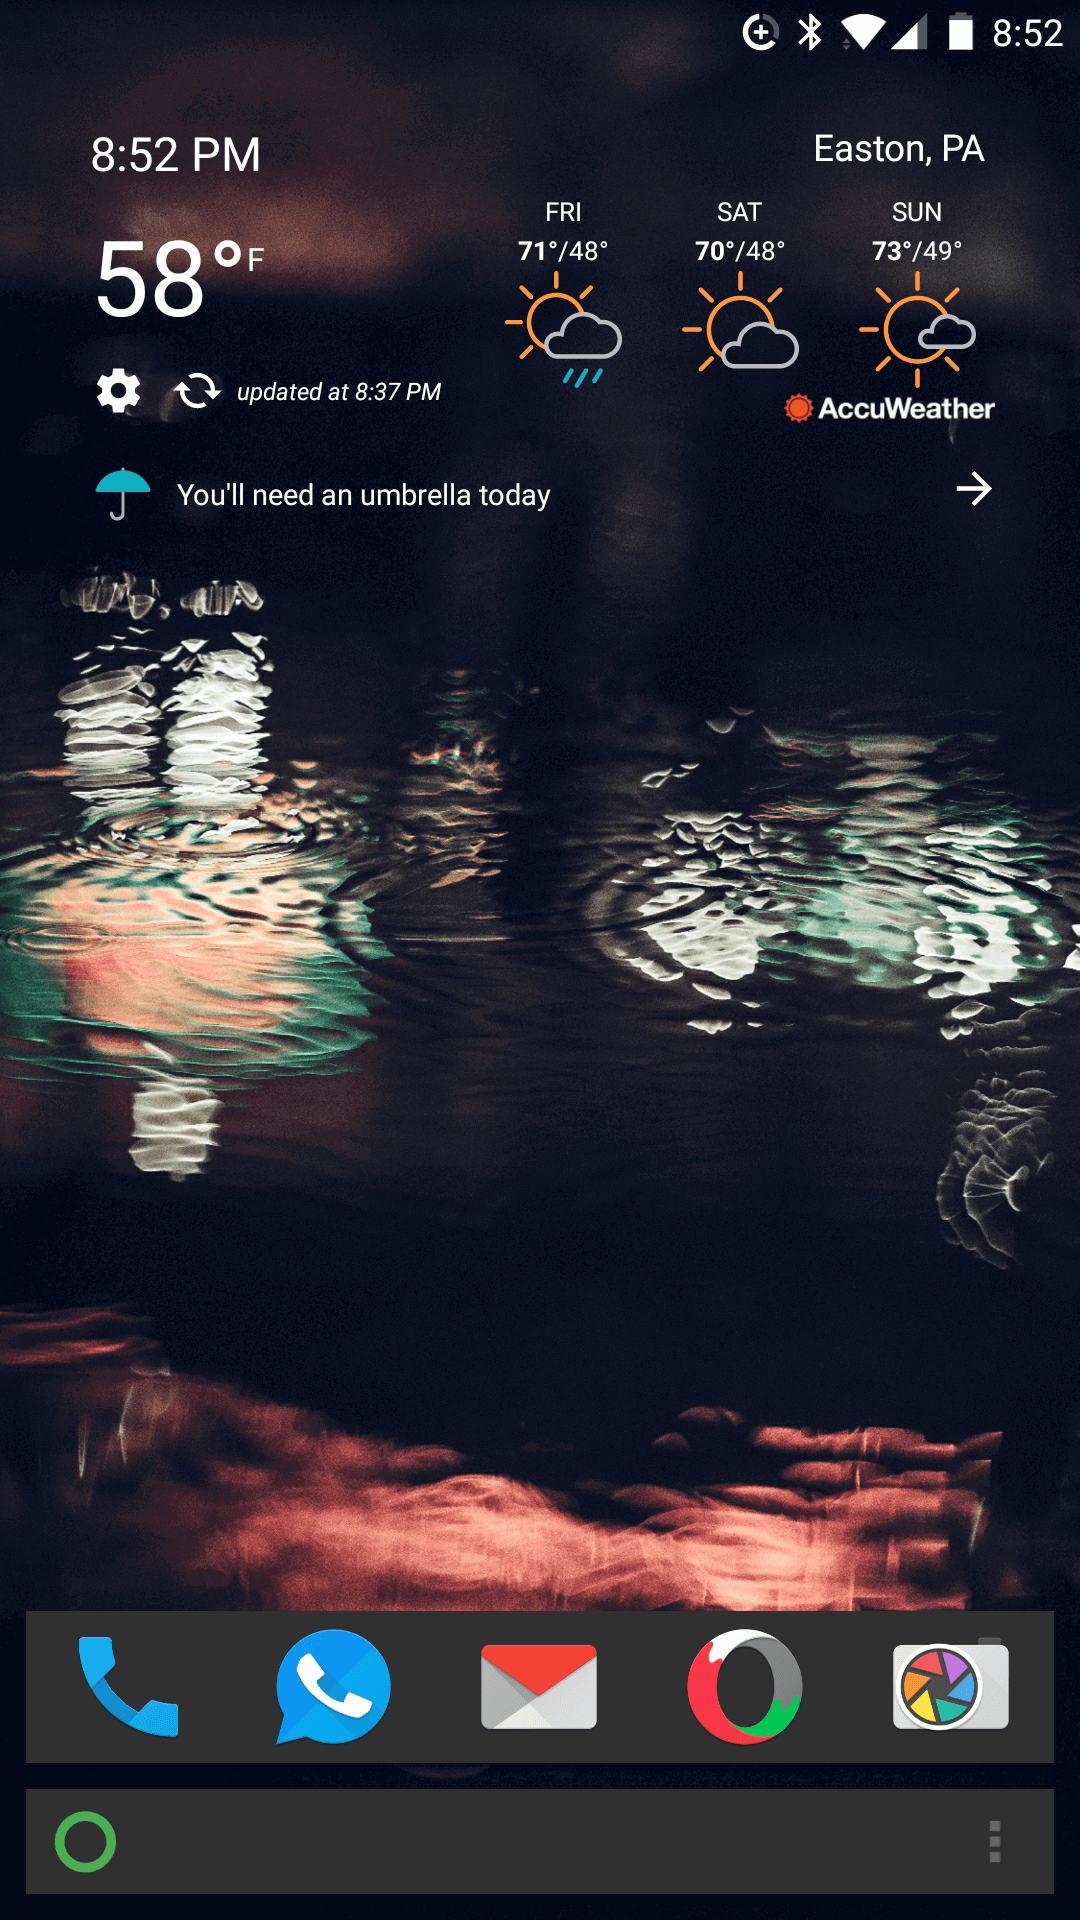
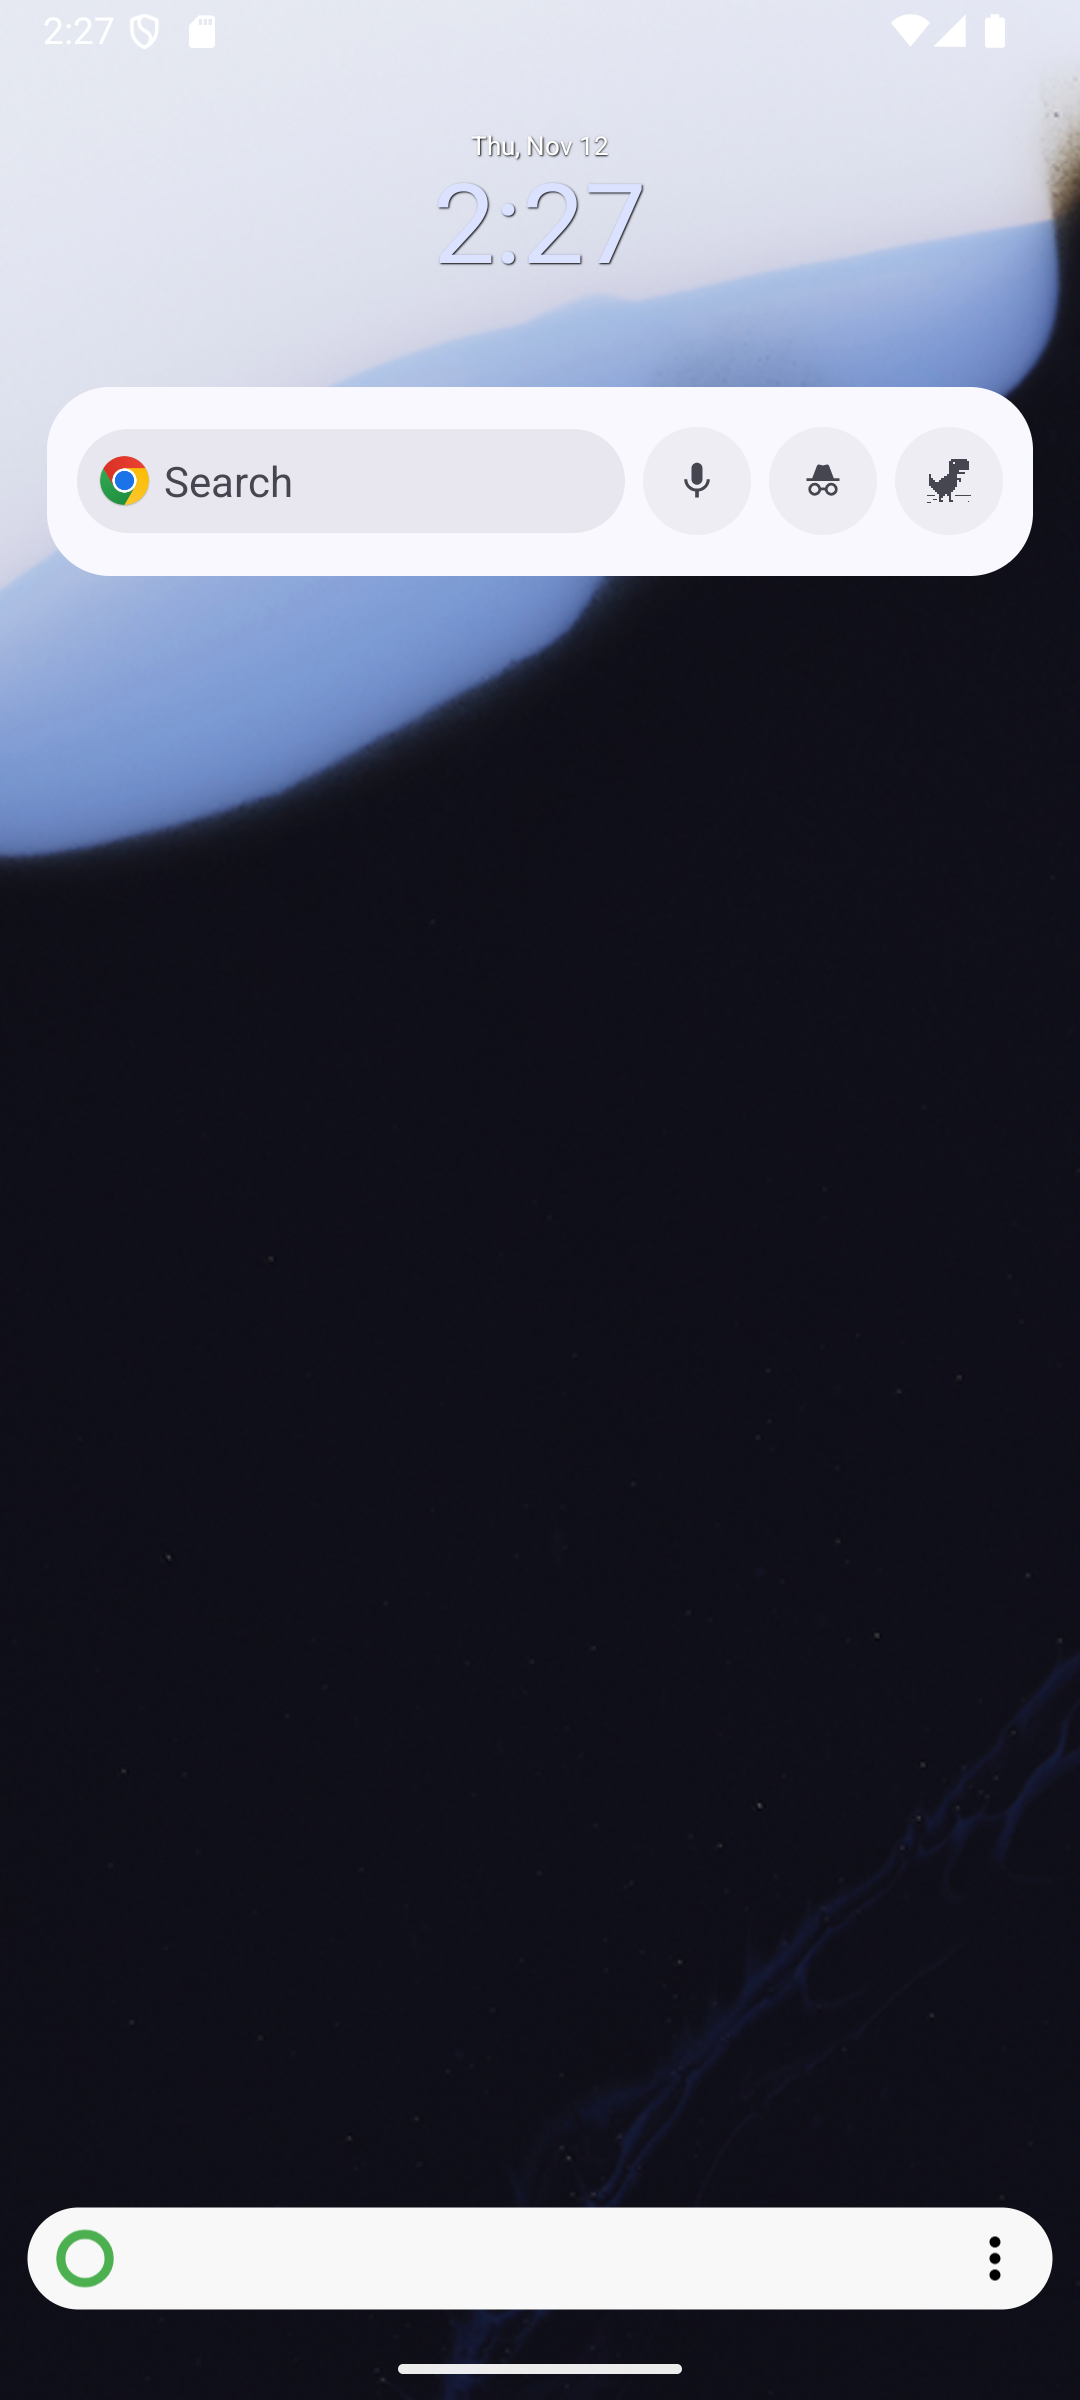
Update widget documentation: picker, long-press menu, scrolling

diff --git a/docs/_posts/2018-02-11-add-a-widget.md b/docs/_posts/2018-02-11-add-a-widget.md
@@ -6,25 +6,40 @@ description: "Customize your KISS launcher with a widget on the home screen."
 type: Document
 ---
 
-KISS only supports widget in `Minimalistic UI`.
+KISS only supports widgets in `Minimalistic UI`.
 
 ## Enable `Minimalistic UI`
 
-From the settings, enable `Minimalistic UI` (`⋮, KISS Settings, Home screen`, enable `Minimalistic UI`).
+From the settings, enable `Minimalistic UI` (`⋮, KISS settings, Home screen`, enable `Minimalistic UI`).
 
 While you're there, you may want to enable some other settings in the `Minimalistic UI` section to make sure you're happy with the end result!
 
 Go back to KISS by pressing the Home button on your device.
 
 ## Add a widget
-Press the three-dots menu again `⋮`. You should now see a new option in the contextual menu, "Add widget":
+Press the three-dots menu again `⋮`. You should now see a new option in the menu, "Add widget":
 
-![Context menu: Enable Widget](/screenshots/widget-context-menu.png)
+![Menu: Add widget](/screenshots/widget-context-menu.png)
 
-From there, pick a widget, and the widget will appear on top of an empty search bar.
+From there, pick a widget in the list. Android may ask you to allow KISS to create widgets, and some widgets will open their own configuration screen first.
 
-![Context menu: Enable Widget](/screenshots/example-widget.png)
+![Widget picker](/screenshots/widget-picker.png)
 
-To remove the widget, long-press on the widget and select "Remove widget".
+The widget will then appear at the top of the screen, above the empty search bar. You can add as many widgets as you want: they're stacked vertically, each new widget being added below the previous ones.
 
-By long-pressing, you can also resize the widget and change the order between the widgets.
+![Home screen with two widgets](/screenshots/example-widget.png)
+
+## Customize your widgets
+Long-press on a widget to display its menu:
+
+![Widget menu](/screenshots/widget-long-press-menu.png)
+
+* `Settings` reopens the widget's configuration screen (only displayed for widgets that can be reconfigured);
+* `Enlarge` and `Reduce` change the height of the widget, within the limits allowed by the widget;
+* `Move up` and `Move down` change the order of your widgets;
+* `Remove widget` removes the widget.
+
+If you want some room between your widgets, use `Space between widgets` in `⋮, KISS settings, Home screen`.
+
+## Scroll through your widgets
+When your widgets don't fit on the screen, scroll through them with a two-finger swipe. Touching a widget with one finger still interacts with the widget itself.
